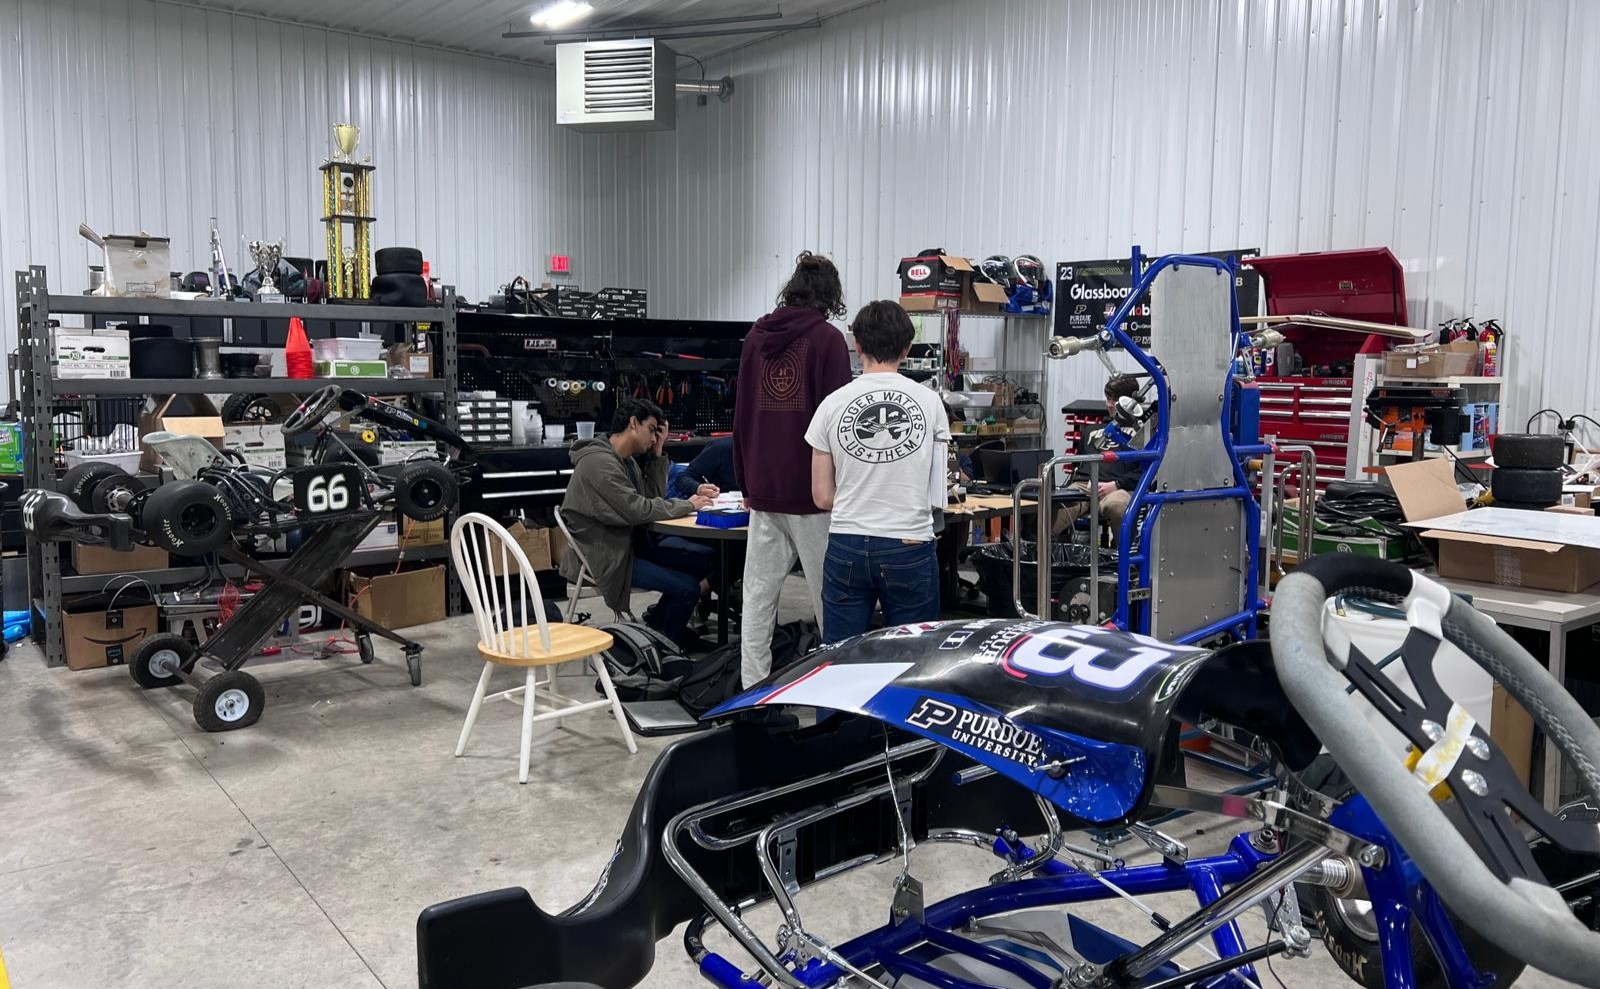
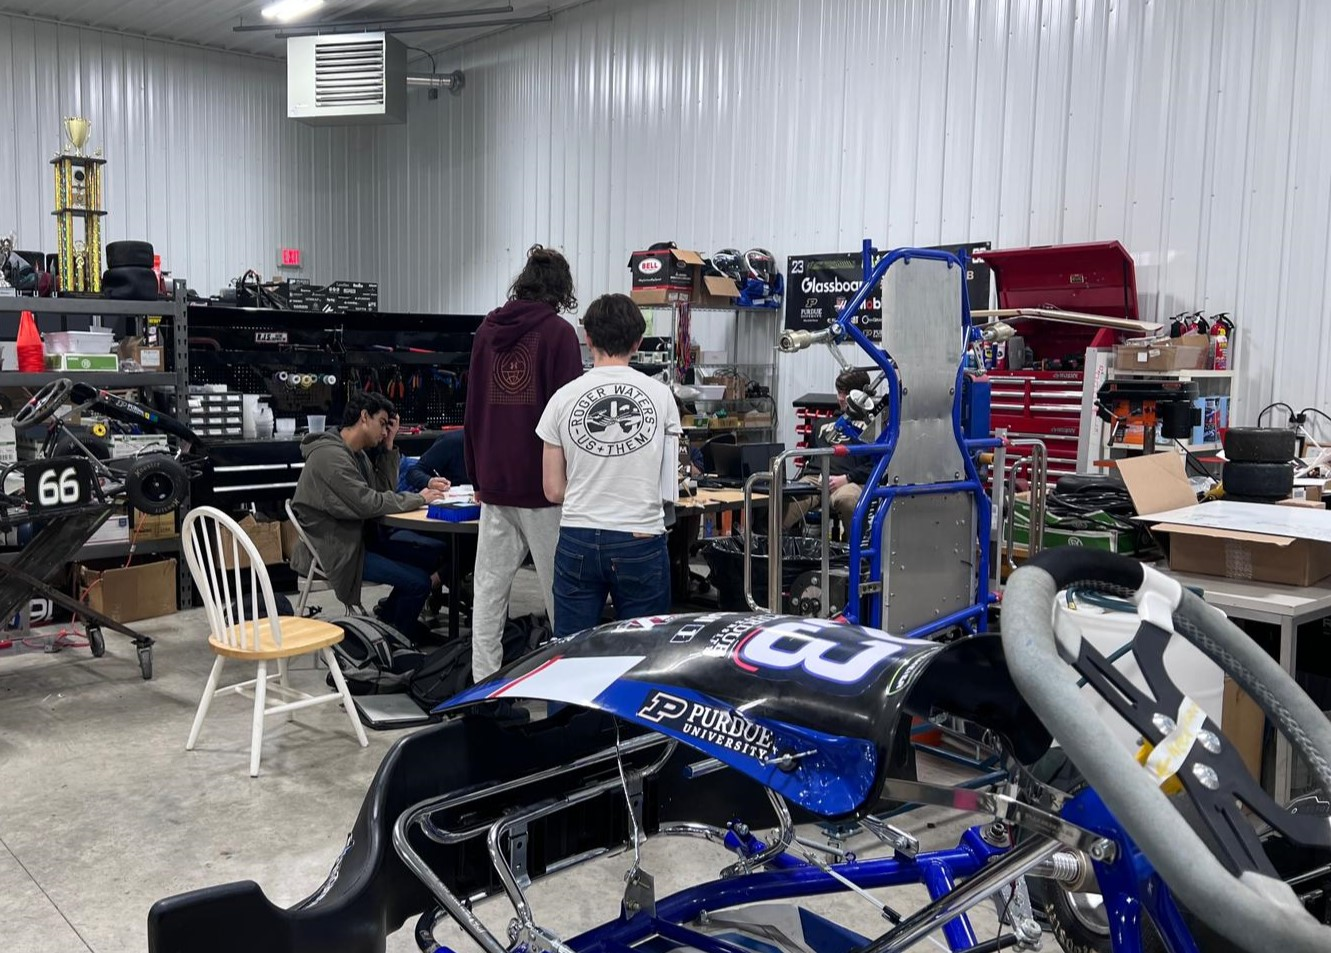
first page done

diff --git a/_pages/about.md b/_pages/about.md
@@ -21,22 +21,22 @@ About Me 🙋♂🇵🇪
 <p></p>
 
 <p>
-  <img src="images/500x300.png" alt="Inspiration" style="float: left; margin: 0 15px 15px 0; width: 350px;">
+  <img src="images/caral_home.png" alt="Inspiration" style="float: right; margin: 0 15px 15px 0; width: 400px;">
   As I'm originally from Peru, my journey into the world of technology started back home around 2006 when my parents got their first PC. It was an old machine with a CRT monitor, but it amazed me how it could run calculations and games. It was pure magic to me. That curiosity quickly turned into a habit of taking things apart. From RC cars to blenders, TVs, and even my dad’s camera (most of the times I didn’t even know how to put them back together).
 <br><br></p>
 
 
 <p>
-  <img src="images/bdmesh_home.png" alt="Inspiration" style="float: right; margin: 0 15px 15px 0; width: 350px;">
+  <img src="images/bdmesh_home.png" alt="Inspiration" style="float: left; margin: 0 15px 15px 0; width: 350px;">
   During Highschool, video games also played a huge role in shaping my passion for electronics. They inspired me to dive into advanced 3D modeling and programming, blending creativity with technology. Social service was also very important to me and it inspired my project BD-Mesh (see it on Portfolio section).
 <br><br><br><br></p>
 
 
 <p>
-  <img src="images/kart_home.jpg" alt="Inspiration" style="float: left; margin: 0 15px 15px 0; width: 350px;">
+  <img src="images/kart_home.jpg" alt="Inspiration" style="float: right; margin: 0 15px 15px 0; width: 350px;">
   Fast forward to today, I’m in college, and that passion for technology has only grown. Seeing the incredible work by researchers and professors has sparked my drive to innovate and create even more exciting projects. I am also part of the ECE Ambassadors that promote student projects and innitiatives.
 
-<br><br><br></p>
+<br><br><br><br></p>
 
 <p style= "text-align: center;"> <strong>Let’s build something amazing together!</strong><br><br></p>
 
